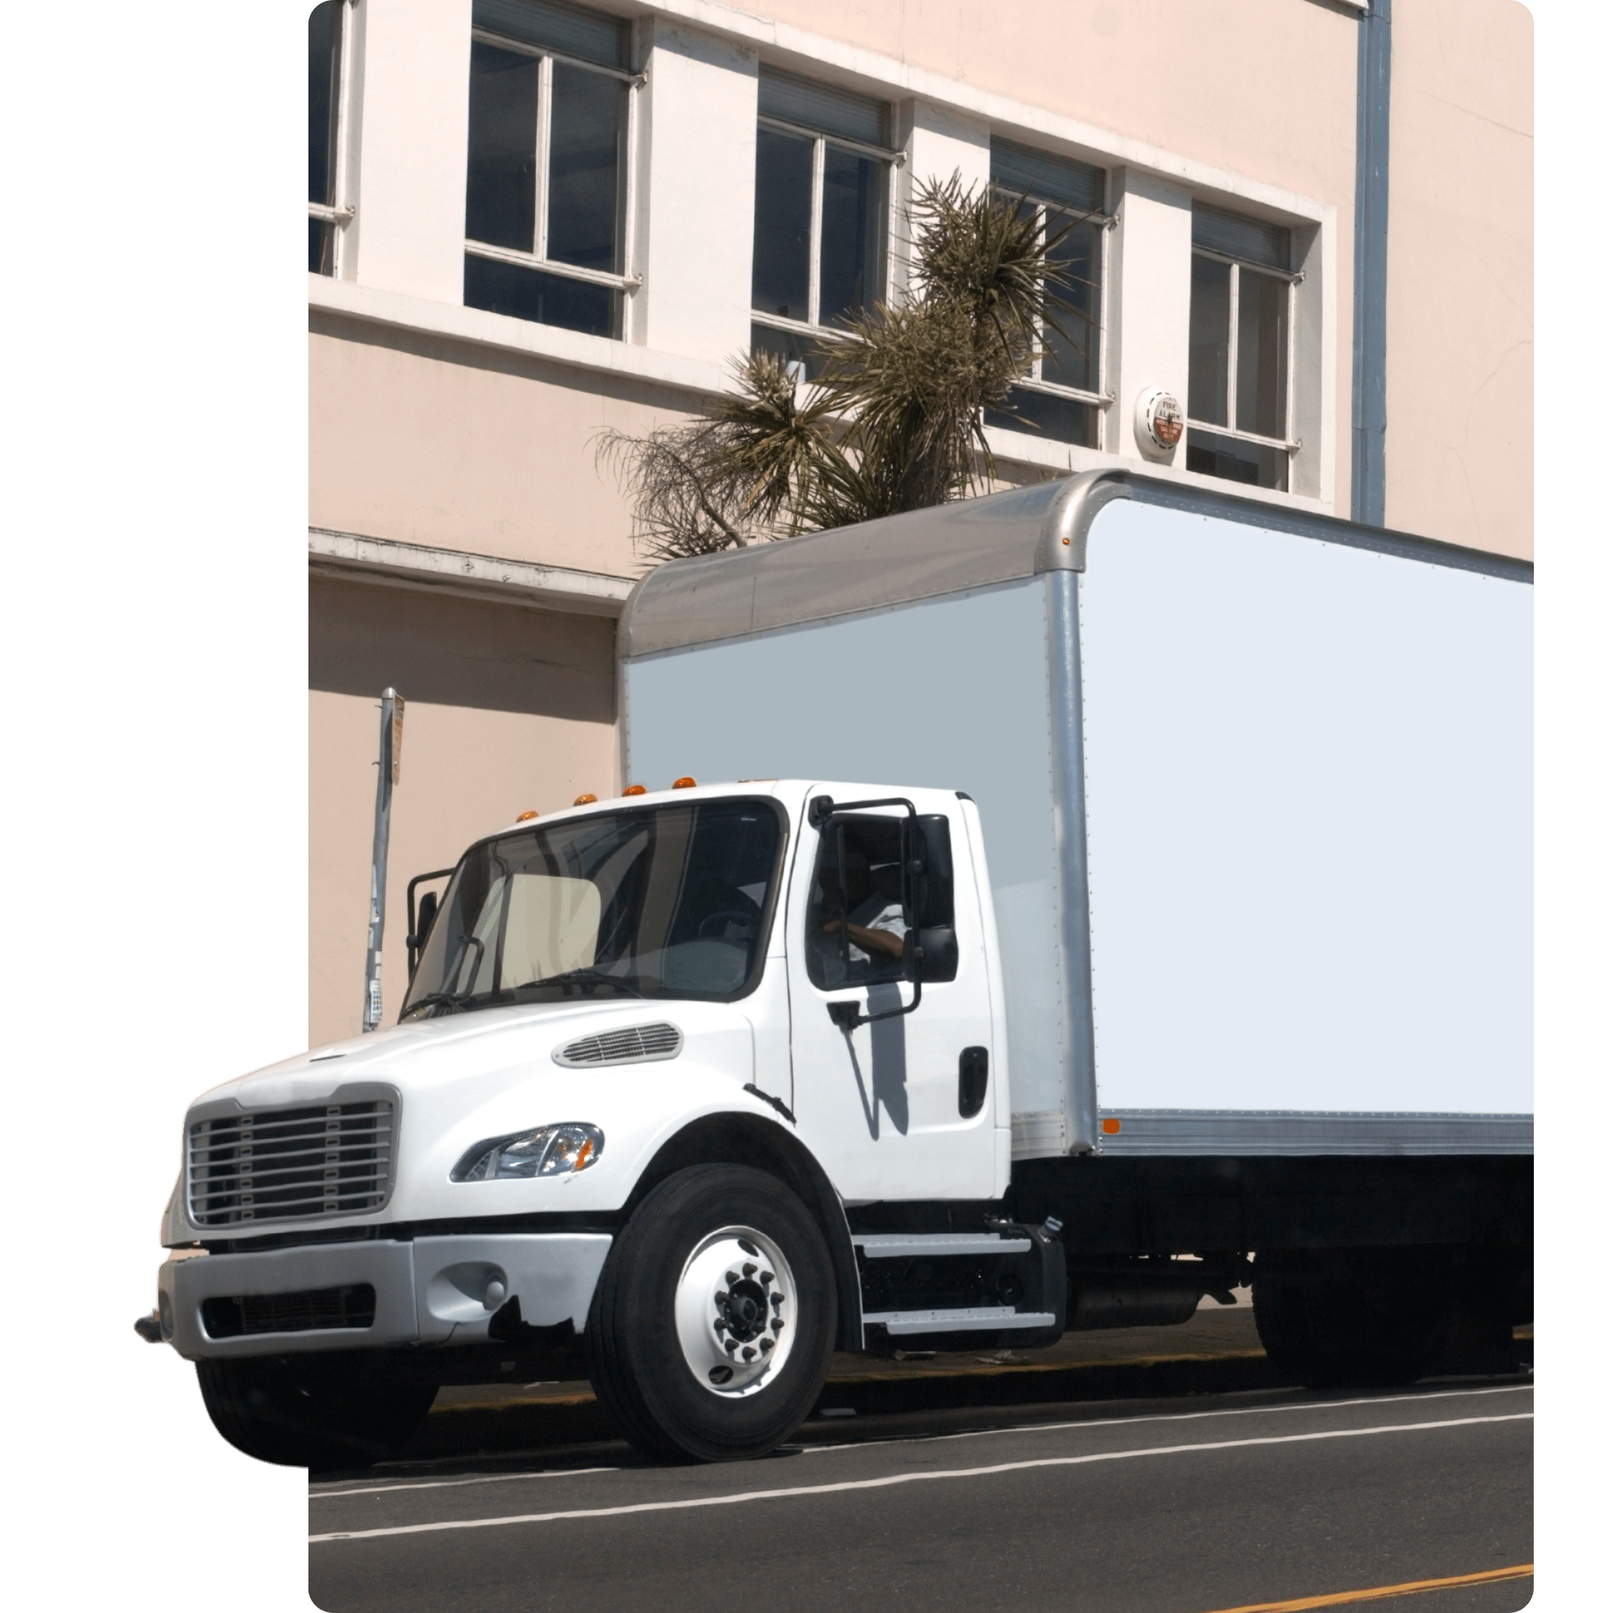
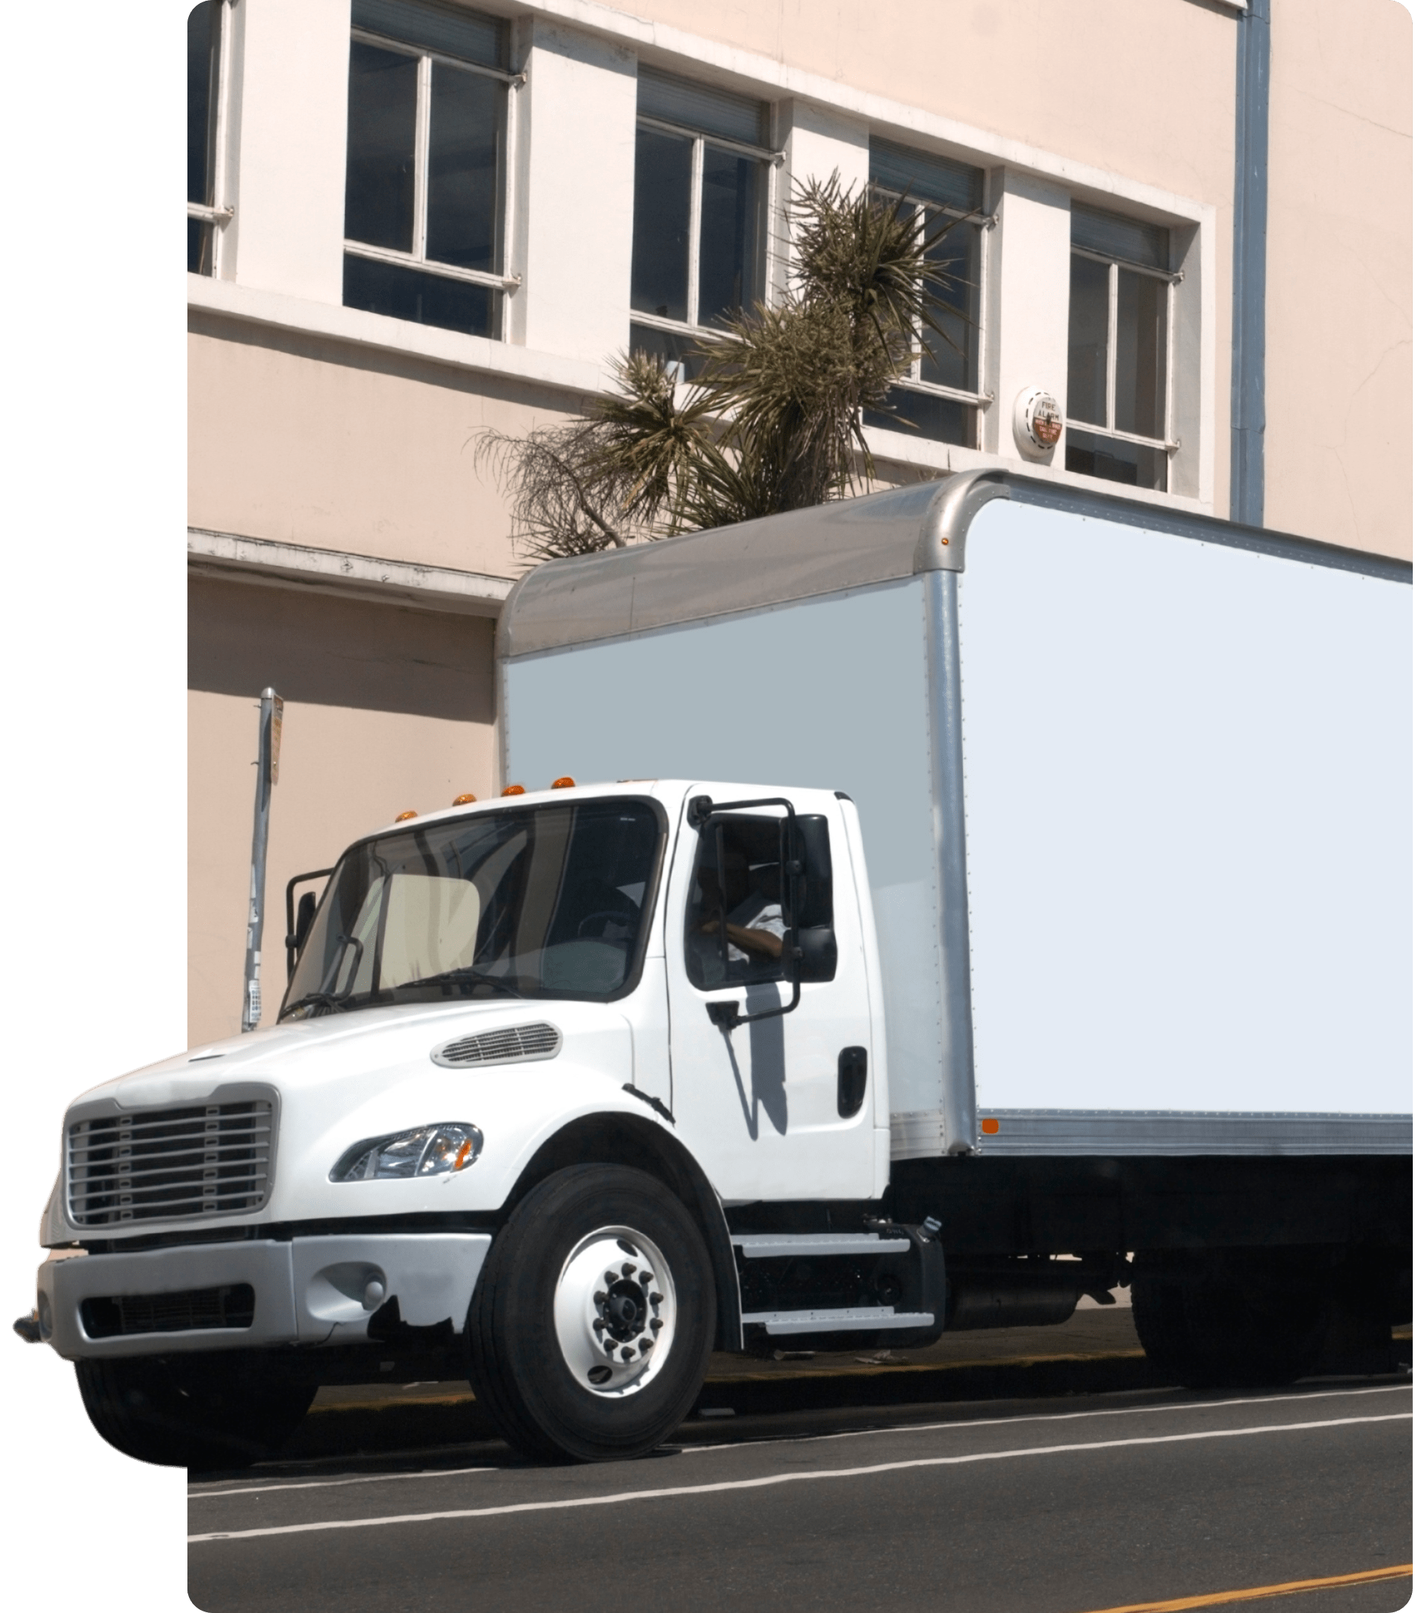
Ajuste general a todas las landings

diff --git a/src/pages/landing/RealtorPage.jsx b/src/pages/landing/RealtorPage.jsx
@@ -13,7 +13,7 @@ const FeatureCard = ({ title, image, index }) => {
       transition={{ duration: 0.5, delay: index * 0.3 }}
       className="flex flex-col p-2 rounded-xl items-center justify-center shadow-md ring-1 ring-black/5"
     >
-      <img src={image} alt="Feature" className="size-32 sm:size-40" />
+      <img src={image} alt="Feature" className="size-32 lg:size-40" />
       <h3 className="font-semibold text-sm sm:text-base lg:text-lg max-w-44 text-center">
         {title}
       </h3>
@@ -80,14 +80,14 @@ const RealtorPage = () => {
     <div className="padding-container w-full flex flex-col gap-24 my-10 md:my-24">
       {/* Section 1 */}
       <section className="flex-center w-full flex-col">
-        <div className="get-app-landing flex-col lg:flex-row items-center p-6 sm:py-20 sm:px-28 md:px-18">
-          <div className="flex flex-col items-center lg:items-start gap-12">
-            <h2 className="text-center font-bold text-4xl md:text-5xl xl:text-6xl lg:text-left xl:max-w-2xl text-pretty leading-tight">
-              Connect with Homebuyers{" "}
+        <div className="get-app-landing flex-col items-center justify-center p-10 xl:px-0 md:flex-row">
+          <div className="flex flex-col items-center gap-5 lg:gap-8">
+            <h2 className="text-center title-landing leading-tight">
+              Connect with Homebuyers <br />
               <span className="text-white">Who Are Ready to Find You</span>
             </h2>
             <Button
-              className="md:w-[50%] bg-purple-500 text-color-1 border border-purple-500 rounded-2xl hover:bg-purple-100 hover:text-purple-500"
+              className="w-full lg:w-[60%] bg-purple-500 text-color-1 border border-purple-500 rounded-2xl hover:bg-purple-100 hover:text-purple-500"
               onClick={() => navigate("/join/realtors")}
             >
               Create your free profile
@@ -95,7 +95,7 @@ const RealtorPage = () => {
           </div>
           <img
             src="/assets/img/landing-realtor-1.png"
-            className="hidden md:block md:w-1/2"
+            className="hidden md:block md:w-[50%]"
             alt=""
           />
         </div>
@@ -147,7 +147,7 @@ const RealtorPage = () => {
           className="absolute w-28 md:w-52 left-0 bottom-0 rotate-180"
         />
         <div className="w-full flex flex-col gap-4">
-          <h2 className="bold-32 lg:bold-52">
+          <h2 className="title-landing">
             Benefits of being part of Moving Essential
           </h2>
           <div className="w-1/2 h-[4px] bg-linear-to-r from-color-1 to-white" />
@@ -171,10 +171,12 @@ const RealtorPage = () => {
       </section>
       {/* Section 5 */}
       <section className="max-container flex items-center w-full gap-5">
-        <div className="get-app-landing-2 flex-row p-8 xl:p-10 !items-center justify-center mt-auto lg:items-start h-[410px] max-h-[500px] xl:h-[450px]">
-          <div className="w-full flex flex-col gap-5">
-            <h2 className="bold-32 lg:bold-52 text-color-1">Who Can Join?</h2>
-            <ul className="text-white text-lg space-y-4">
+        <div className="get-app-landing-2 flex-row p-8 xl:p-10 !items-center justify-center mt-auto lg:items-start lg:h-[305px] xl:h-[405px]">
+          <div className="w-full flex flex-col gap-5 xl:gap-10">
+            <h2 className="title-landing text-color-1 leading-none">
+              Who Can Join?
+            </h2>
+            <ul className="text-white text-md lg:text-lg space-y-2 xl:space-y-4">
               <li className="flex items-center gap-2">
                 <Circle className="text-color-1 size-2 fill-current" />
                 Licensend real estate agents or broker associates.
@@ -203,7 +205,7 @@ const RealtorPage = () => {
         </div>
         <img
           src="/assets/img/landing-realtor-3.png"
-          className="hidden lg:block w-1/2 mt-auto lg:h-[450px] xl:h-[500px]"
+          className="hidden mt-auto lg:block w-1/2 lg:h-[340px] xl:h-[450px]"
           alt=""
         />
       </section>
@@ -211,13 +213,15 @@ const RealtorPage = () => {
       <section className="max-container flex items-center w-full gap-5">
         <img
           src="/assets/img/landing-realtor-4.png"
-          className="hidden mt-auto w-[50%] lg:block xl:w-1/2 lg:h-[490px]"
+          className="hidden mt-auto lg:block w-1/2 lg:h-[340px] xl:h-[445px]"
           alt=""
         />
-        <div className="get-app-landing mb-4 flex-row p-8 xl:p-10 !items-center justify-center mt-auto lg:items-start h-[430px]">
-          <div className="w-full flex flex-col gap-5">
-            <h2 className="bold-32 lg:bold-52 text-white">How does it work?</h2>
-            <ul className="text-white text-lg space-y-4">
+        <div className="get-app-landing flex-row p-8 xl:p-10 !items-center justify-center mt-auto lg:items-start lg:h-[305px] xl:h-[405px]">
+          <div className="w-full flex flex-col gap-5 xl:gap-10">
+            <h2 className="title-landing text-white leading-none">
+              Who Can Join?
+            </h2>
+            <ul className="text-white text-md lg:text-lg space-y-2 xl:space-y-4">
               <li className="flex items-center gap-2">
                 <Circle className="text-black size-2 fill-current" />
                 Sign up for free - it takes less than 2 minutes.
@@ -233,10 +237,10 @@ const RealtorPage = () => {
               </li>
             </ul>
             <Button
-              className="lg:w-1/2 bg-purple-500 text-white border border-purple-500 rounded-2xl hover:bg-purple-100 hover:text-purple-500"
+              className="lg:w-1/2 bg-white !text-black border border-white rounded-2xl hover:bg-transparent hover:!text-white"
               onClick={() => navigate("/join/realtors")}
             >
-              Register Free Today
+              More information
             </Button>
           </div>
           <img
@@ -261,12 +265,22 @@ const RealtorPage = () => {
         </div>
       </section>
       {/* Section 8 */}
-      <section className="flex-center w-full flex-col">
+      {/* <section className="flex-center w-full flex-col">
         <div className="get-app-landing flex-row items-center max-h-none !py-10 sm:px-28 md:px-12">
           <FAQs title="FAQs for Movers" options={faqs} />
           <img
             src="/assets/img/landing-realtor-5.png"
             className="hidden lg:block md:w-3/5 lg:w-2/5"
+            alt=""
+          />
+        </div>
+      </section> */}
+      <section className="flex-center w-full flex-col">
+        <div className="get-app-landing max-h-none flex-row items-center py-10 md:p-10">
+          <FAQs title="FAQs for Realtors" options={faqs} />
+          <img
+            src="/assets/img/landing-realtor-5.png"
+            className="hidden md:block md:w-[40%]"
             alt=""
           />
         </div>

diff --git a/src/pages/landing/CompanyPage.jsx b/src/pages/landing/CompanyPage.jsx
@@ -14,7 +14,7 @@ const FeatureCard = ({ title, image, index }) => {
       transition={{ duration: 0.5, delay: index * 0.3 }}
       className="flex flex-col p-2 rounded-xl items-center justify-center shadow-md ring-1 ring-black/5"
     >
-      <img src={image} alt="Feature" className="size-32 sm:size-40" />
+      <img src={image} alt="Feature" className="size-32 lg:size-40" />
       <h3 className="font-semibold text-sm sm:text-base lg:text-lg max-w-44 text-center">
         {title}
       </h3>
@@ -101,10 +101,11 @@ const CompanyPage = () => {
     <div className="padding-container w-full flex flex-col gap-24 my-10 md:my-24">
       {/* Section 1 */}
       <section className="flex flex-col w-full">
-        <div className="get-app-landing flex-col xl:flex-row items-center p-10 sm:px-20 sm:py-20 md:pb-0 xl:pt-10">
-          <div className="pb-0 xl:pb-10 flex flex-col items-center xl:items-start gap-12">
-            <h2 className="text-center font-bold text-4xl md:text-5xl xl:text-left md:max-w-xl text-pretty leading-tight">
-              Get Your Moving Company in Front of More Clients.{" "}
+        <div className="get-app-landing flex-col gap-y-4 md:flex-row items-center p-10 px-10 !pt-0 sm:py-20 sm:pb-0 xl:px-20">
+          <div className="mt-10 md:pb-10 flex flex-col items-center gap-5 lg:gap-12">
+            <h2 className="text-center title-landing md:max-w-xl text-pretty leading-tight">
+              Get Your Moving Company in Front of More Clients.
+              <br />
               <span className="text-white">
                 Be the first choice in your area with zero ad spend
               </span>
@@ -118,7 +119,7 @@ const CompanyPage = () => {
           </div>
           <img
             src="/assets/img/landing-company-1.png"
-            className="hidden md:block w-[70%] xl:w-1/2 mt-auto"
+            className="hidden sm:block w-[50%] md:w-[40%] lg:w-1/2 mt-auto"
             alt=""
           />
         </div>
@@ -128,15 +129,15 @@ const CompanyPage = () => {
         <img
           src="/assets/img/border.png"
           alt=""
-          className="absolute w-16 md:w-28 right-0 top-0"
+          className="absolute w-16 lg:w-28 right-0 top-0"
         />
         <img
           src="/assets/img/border-2.png"
           alt=""
-          className="absolute w-28 md:w-52 left-0 bottom-0 rotate-180"
+          className="absolute w-28 lg:w-52 left-0 bottom-0 rotate-180"
         />
         <div className="w-full flex flex-col gap-4">
-          <h2 className="bold-32 lg:bold-52">
+          <h2 className="title-landing">
             Benefits of being part of Moving Essential
           </h2>
           <div className="w-1/2 h-[4px] bg-linear-to-r from-color-1 to-white" />
@@ -160,10 +161,12 @@ const CompanyPage = () => {
       </section>
       {/* Section 3 */}
       <section className="max-container flex items-center w-full gap-5">
-        <div className="get-app-landing-2 flex-row p-8 xl:p-10 !items-center justify-center mt-auto lg:items-start h-[370px] xl:h-[450px]">
-          <div className="w-full flex flex-col gap-5">
-            <h2 className="bold-32 lg:bold-52 text-color-1">Who Can Join?</h2>
-            <ul className="text-white text-lg space-y-4">
+        <div className="get-app-landing-2 flex-row p-8 xl:p-10 !items-center justify-center mt-auto lg:items-start lg:h-[320px] xl:h-[405px]">
+          <div className="w-full flex flex-col gap-8 xl:gap-10">
+            <h2 className="title-landing text-color-1 leading-none">
+              Who Can Join?
+            </h2>
+            <ul className="text-white text-md lg:text-lg space-y-2 xl:space-y-4">
               <li className="flex items-center gap-2">
                 <Circle className="text-color-1 size-2 fill-current" />
                 Local or interstate moving companies
@@ -192,7 +195,7 @@ const CompanyPage = () => {
         </div>
         <img
           src="/assets/img/landing-company-2.png"
-          className="hidden lg:block w-[50%] lg:h-[390px] xl:w-1/2 mt-auto xl:h-[480px]"
+          className="hidden mt-auto lg:block w-[50%] lg:h-[340px] xl:w-1/2 xl:h-[430px]"
           alt=""
         />
       </section>
@@ -200,13 +203,15 @@ const CompanyPage = () => {
       <section className="max-container flex items-center w-full gap-5">
         <img
           src="/assets/img/landing-company-3.png"
-          className="hidden mt-auto w-[50%] lg:block lg:h-[430px] xl:w-1/2 xl:h-[480px]"
+          className="hidden mt-auto lg:block w-[50%] lg:h-[340px] xl:w-1/2 xl:h-[430px]"
           alt=""
         />
-        <div className="get-app-landing flex-row p-8 xl:p-10 !items-center justify-center mt-auto lg:items-start h-[400px] xl:h-[450px]">
-          <div className="w-full flex flex-col gap-5">
-            <h2 className="bold-32 lg:bold-52 text-white">How does it work?</h2>
-            <ul className="text-white text-lg space-y-4">
+        <div className="get-app-landing flex-row p-8 xl:p-10 !items-center justify-center mt-auto lg:items-start lg:h-[320px] xl:h-[405px]">
+          <div className="w-full flex flex-col gap-8 xl:gap-10">
+            <h2 className="title-landing text-white leading-none">
+              How does it work?
+            </h2>
+            <ul className="text-white text-md space-y-2 lg:text-lg xl:space-y-4">
               <li className="flex items-center gap-2">
                 <Circle className="text-black size-2 fill-current" />
                 Register for free
@@ -221,10 +226,10 @@ const CompanyPage = () => {
               </li>
             </ul>
             <Button
-              className="lg:w-1/2 bg-purple-500 text-white border border-purple-500 rounded-2xl hover:bg-purple-100 hover:text-purple-500"
+              className="lg:w-1/2 bg-white !text-black border border-white rounded-2xl hover:bg-transparent hover:!text-white"
               onClick={() => navigate("/join/company")}
             >
-              Register for free now
+              More information
             </Button>
           </div>
           <img
@@ -249,12 +254,12 @@ const CompanyPage = () => {
         </div>
       </section>
       {/* Section 6 */}
-      <section className="flex-center w-full flex-col pb-[100px]">
-        <div className="get-app-landing flex-col xl:flex-row items-center max-h-none !py-10 sm:px-28 md:px-12">
+      <section className="flex-center w-full flex-col">
+        <div className="get-app-landing flex-col gap-5 lg:gap-20 md:flex-row items-center max-h-none !py-10  md:px-10">
           <FAQs title="FAQs for Movers" options={faqs} />
           <img
             src="/assets/img/landing-company-4.png"
-            className="hidden lg:block md:w-3/5 lg:w-1/2"
+            className="hidden md:block md:w-[50%] lg:w-[40%]"
             alt=""
           />
         </div>

diff --git a/src/pages/landing/UserPage.jsx b/src/pages/landing/UserPage.jsx
@@ -12,7 +12,7 @@ const FeatureCard = ({ title, image, index }) => {
       transition={{ duration: 0.5, delay: index * 0.3 }}
       className="flex flex-col p-2 rounded-xl items-center justify-center shadow-md ring-1 ring-black/5"
     >
-      <img src={image} alt="Feature" className="size-32 sm:size-40" />
+      <img src={image} alt="Feature" className="size-32 lg:size-40" />
       <h3 className="font-semibold text-sm sm:text-base lg:text-lg max-w-44 text-center">
         {title}
       </h3>
@@ -62,17 +62,21 @@ const UserPage = () => {
   ];
 
   return (
-    <div className="padding-container-2 w-full flex flex-col gap-24">
+    <div className="padding-container-2 w-full flex flex-col gap-24 py-10 md:py-24">
       {/* Section 1 */}
-      <section className="mt-10 md:mt-24 flex-center w-full flex-col">
-        <div className="get-app-landing flex-col md:flex-row items-center p-6 sm:px-28 md:px-12">
-          <div className="flex flex-col gap-12">
-            <h2 className="text-center font-bold text-4xl md:text-5xl xl:text-6xl md:text-left xl:max-w-xl text-pretty leading-tight">
-              Compare Top Moving Services & Realtors{" "}
+      <section className="flex-center w-full flex-col">
+        <div className="get-app-landing flex-col items-center p-10 md:flex-row">
+          <div className="flex flex-col items-center gap-5 md:gap-12">
+            {/* <h2 className="text-center title-landing leading-tight lg:text-left md:text-4xl lg:text-5xl xl:text-6xl xl:max-w-xl">
+              Compare Top Moving Services & Realtors <br />
+              <span className="text-white">All in One Place</span>
+            </h2> */}
+            <h2 className="text-center title-landing leading-tight">
+              Compare Top Moving Services & Realtors <br />
               <span className="text-white">All in One Place</span>
             </h2>
             <Button
-              className="lg:w-[50%] bg-purple-500 text-color-1 border border-purple-500 rounded-2xl hover:bg-purple-100 hover:text-purple-500"
+              className=" bg-purple-500 text-color-1 border border-purple-500 rounded-2xl hover:bg-purple-100 hover:text-purple-500"
               onClick={() => navigate("/")}
             >
               See more
@@ -80,7 +84,7 @@ const UserPage = () => {
           </div>
           <img
             src="/assets/img/landing-user-1-1.png"
-            className="hidden md:block md:w-1/2"
+            className="hidden md:block md:w-[50%]"
             alt=""
           />
         </div>
@@ -97,11 +101,11 @@ const UserPage = () => {
           alt=""
           className="absolute w-28 lg:w-40 right-0 bottom-0"
         />
-        <h2 className="text-3xl lg:text-5xl font-bold sm:max-w-2xl lg:max-w-3xl xl:max-w-6xl text-center">
+        <h2 className="text-center title-landing leading-tight sm:max-w-2xl lg:max-w-3xl xl:max-w-6xl">
           Save time and money by instantly comparing prices, and verified
           ratings.
         </h2>
-        <p className="md:text-2xl font-medium text-color-1 text-center">
+        <p className="md:text-xl font-medium text-color-1 text-center">
           Start now — it’s free to search and connect.
         </p>
         <div className="flex flex-col sm:flex-row flex-center gap-4 sm:gap-10">
@@ -140,7 +144,7 @@ const UserPage = () => {
           className="absolute w-28 lg:w-52 left-0 bottom-0 rotate-180"
         />
         <div className="w-full flex flex-col gap-4">
-          <h2 className="bold-32 lg:bold-52">User benefits</h2>
+          <h2 className="title-landing">User benefits</h2>
           <div className="w-1/2 h-[4px] bg-linear-to-r from-color-1 to-white" />
         </div>
         <div className="py-20 w-full grid grid-cols-2 md:grid-cols-4 gap-10">
@@ -161,12 +165,12 @@ const UserPage = () => {
         </Button>
       </section>
       {/* Section 5 */}
-      <section className="flex-center w-full flex-col pb-[100px]">
-        <div className="get-app-landing flex-row items-center py-10 sm:px-28 md:px-12">
+      <section className="flex-center w-full flex-col">
+        <div className="get-app-landing max-h-none flex-row items-center py-10 md:p-10">
           <FAQs title="Frequently Asked Questions" options={faqs} />
           <img
             src="/assets/img/landing-user-3.png"
-            className="hidden md:block md:w-2/5"
+            className="hidden md:block md:w-[40%]"
             alt=""
           />
         </div>

diff --git a/src/pages/landing/components/FAQs.jsx b/src/pages/landing/components/FAQs.jsx
@@ -7,12 +7,12 @@ import {
 
 const FAQs = ({ title, options = [] }) => {
   return (
-    <div className="w-full flex flex-col gap-12">
-      <h2 className="bold-32 lg:bold-52 xl:max-w-3xl text-white">{title}</h2>
+    <div className="w-full flex flex-col gap-5 lg:gap-12">
+      <h2 className="title-landing text-white">{title}</h2>
       <Accordion type="single" collapsible className="w-full">
         {options.map((option, index) => (
           <AccordionItem value={`item-${index + 1}`} key={index}>
-            <AccordionTrigger className="text-lg text-white data-[state=open]:text-black">
+            <AccordionTrigger className="text-md text-white data-[state=open]:text-black">
               {option.question}
             </AccordionTrigger>
             <AccordionContent>{option.answer}</AccordionContent>

diff --git a/src/index.css b/src/index.css
@@ -199,6 +199,10 @@ layer(base);
   @apply text-[16px] font-[700];
 }
 
+@utility title-landing{
+  @apply font-bold text-[30px] md:text-[24px] lg:text-[32px] xl:text-[38px] text-pretty;
+}
+
 @utility hero-map {
   /* Hero */
   @apply absolute right-0 top-0 h-screen w-screen bg-pattern-2 bg-cover bg-center md:-right-28 xl:-top-60 opacity-80 md:opacity-100;
